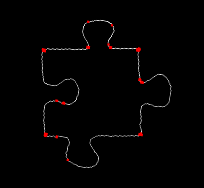
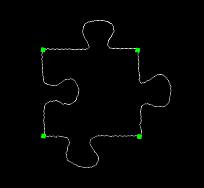
Add better rotated jigsaw piece with very accurate 4 corner pixels

diff --git a/JigsawSolver/test_code/EdgeProcessing/harrisCorner.py b/JigsawSolver/test_code/EdgeProcessing/harrisCorner.py
@@ -31,6 +31,7 @@ def harris_corner_with_rotation():
         filename = CANNY_JIGSAW_PATH + CANNY_JIGASW_PIECE.format(image_number)
 
         try:
+            ori_image = cv2.imread(filename)
             img = cv2.imread(filename)
             gray = cv2.cvtColor(img, cv2.COLOR_BGR2GRAY)
             gray = np.float32(gray)
@@ -40,7 +41,7 @@ def harris_corner_with_rotation():
             dst = cv2.dilate(dst, None)
 
             # Threshold for an optimal value, it may vary depending on the image.
-            dst_threshold = 0.25
+            dst_threshold = 0.20
             img[dst > dst_threshold * dst.max()] = [0, 0, 255]
 
             ret, dst = cv2.threshold(dst, dst_threshold * dst.max(), 255, 0)
@@ -48,7 +49,6 @@ def harris_corner_with_rotation():
 
             try:
                 points = find_points(dst, gray)
-
                 intersections = get_best_fitting_rect_coords(points, perp_angle_thresh=30)
 
                 if intersections is None:
@@ -60,12 +60,15 @@ def harris_corner_with_rotation():
                     rotation_angle = np.arctan2(intersections[1, 1] - intersections[0, 1],
                                                 intersections[1, 0] - intersections[0, 0]) * 180 / np.pi
 
+                for x,y in intersections:
+                    ori_image[int(y)-3:int(y)+3,int(x)-3:int(x)+3] = (0,255,0)
+
                 # Rotate jigsaw image
                 rotated_gray, M = rotate(img, rotation_angle)
+                rotated_gray2, M2 = rotate(ori_image, rotation_angle)
+
                 logger.info("%s rotated by %d degrees", filename, rotation_angle)
 
-            # Rotate intersection points
-                # intersections = np.array(np.round([M.dot((point[0], point[1], 1)) for point in intersections])).astype(np.int)
 
             except:
                 logger.info("No points found for: ", filename)
@@ -73,10 +76,10 @@ def harris_corner_with_rotation():
 
             cv2.imwrite(HARRIS_PIECES_PATH + HARRIS_PIECES.format(image_number), img)
 
-            cv2.imwrite(ROTATED_PIECES_PATH + ROTATED_PIECES.format(image_number), rotated_gray)
+            cv2.imwrite(ROTATED_PIECES_PATH + ROTATED_PIECES.format(image_number), rotated_gray2)
             cv2.imshow('piece1', img)
-
-            cv2.imshow('piece2', rotated_gray)
+            cv2.imshow('piece2', rotated_gray2)
+            cv2.imshow('piece3', rotated_gray)
             cv2.waitKey(0)
 
         except:
@@ -88,9 +91,9 @@ def find_points(dst, gray):
     ret, labels, stats, centroids = cv2.connectedComponentsWithStats(dst)
     # define the criteria to stop and refine the corners
     criteria = (cv2.TERM_CRITERIA_EPS + cv2.TERM_CRITERIA_MAX_ITER, 100, 0.001)
-    corners = cv2.cornerSubPix(gray, np.float32(centroids), (5, 5), (-1, -1), criteria)
+    points = cv2.cornerSubPix(gray, np.float32(centroids), (5, 5), (-1, -1), criteria)
 
-    return corners
+    return points
 
 
 # Reference to https://towardsdatascience.com/solving-jigsaw-puzzles-with-python-and-opencv-d775ba730660
@@ -241,4 +244,3 @@ def get_best_fitting_rect_coords(xy, d_threshold=30, perp_angle_thresh=20, verbo
     scores = areas * norm(0, 150).pdf(rectangularness)
     best_fitting_idxs = possible_rectangles[np.argmax(scores)]
     return xy[best_fitting_idxs]
-
